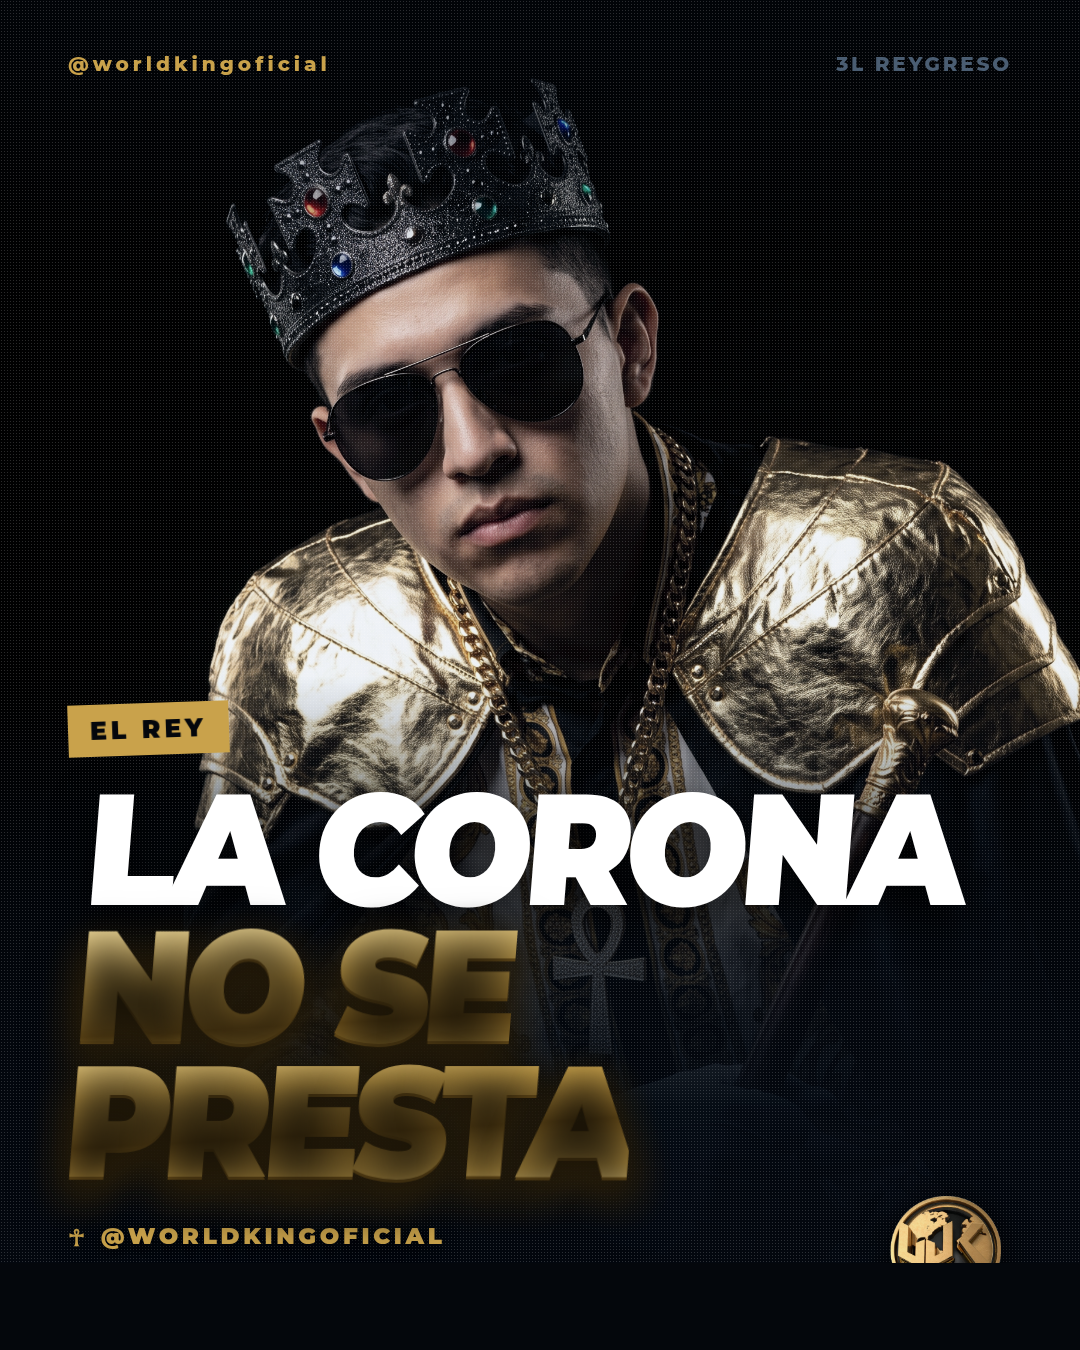
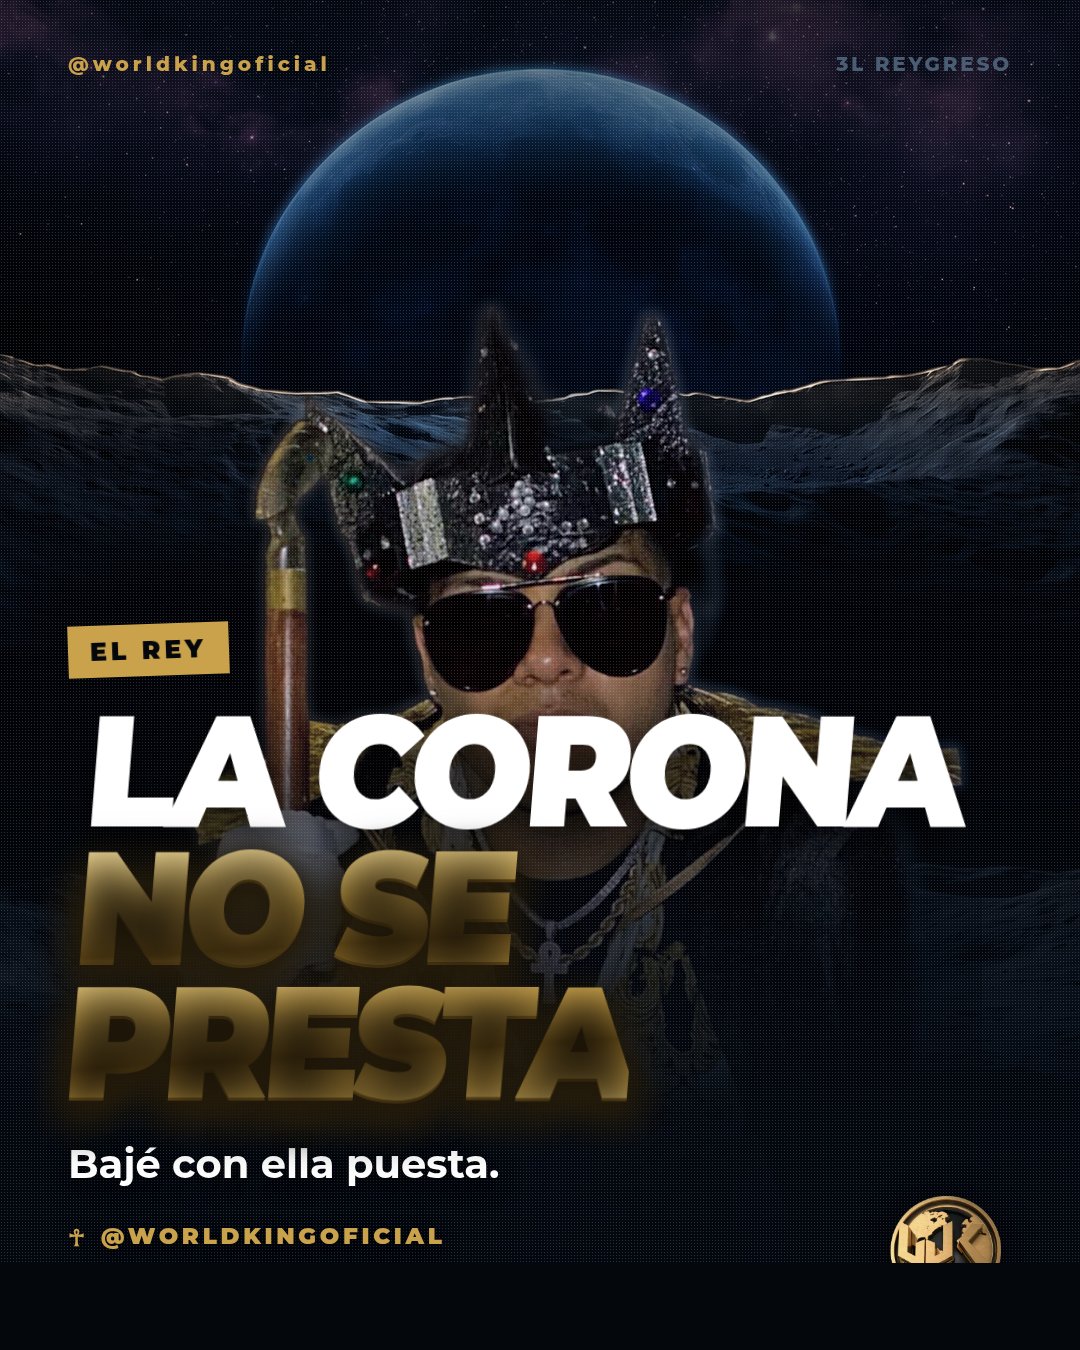
Compone las gráficas de World King con las fotos reales del artista
Llegaron las fotos como archivo, así que las piezas dejan de usar
figuras generadas y pasan a ser el artista de verdad: corona con gemas,
capa, hombreras doradas, ankh y cetro.

Se recorta al artista del fondo negro de estudio y se lo compone sobre
los fondos espaciales ya generados. Las fotos venían subexpuestas, así
que la composición levanta sombras y agrega luz de borde azul y ámbar
para que la figura no quede pegada sobre el fondo.

Se corrige de paso la orientación EXIF de las fotos de cámara, que se
abrían rotadas.

diff --git a/produccion-contenido/clientes/world-king/graficas/build.js b/produccion-contenido/clientes/world-king/graficas/build.js
@@ -60,7 +60,7 @@ const piezas = [
     id: 'post-01-llegada',
     w: 1080, h: 1350,
     tipo: 'hero',
-    imagen: 'rey-retrato-galaxia.png',
+    imagen: 'real-rey-capa-espacio.png',
     sobre: 'TRANSMISIÓN DESDE LA EXÓSFERA',
     titulo: 'NO SOY<br><span class="oro">DE ACÁ</span>',
     texto: 'Bajé a traer algo que todavía no existe.',
@@ -89,10 +89,10 @@ const piezas = [
     id: 'post-04-corona',
     w: 1080, h: 1350,
     tipo: 'hero',
-    imagen: 'rey-estudio-cetro.png',
+    imagen: 'real-rey-luna.png',
     sobre: 'EL REY',
     titulo: 'LA CORONA<br><span class="oro">NO SE PRESTA</span>',
-    texto: '',
+    texto: 'Bajé con ella puesta.',
     pie: '@worldkingoficial',
   },
   {
@@ -109,7 +109,7 @@ const piezas = [
     id: 'historia-01-cuenta-regresiva',
     w: 1080, h: 1920,
     tipo: 'historia',
-    imagen: 'luna-fondo.png',
+    imagen: 'real-rey-story.png',
     sobre: 'ENTRADA EN LA ATMÓSFERA',
     titulo: 'YA<br><span class="oro">VOY<br>BAJANDO</span>',
     texto: EP,
